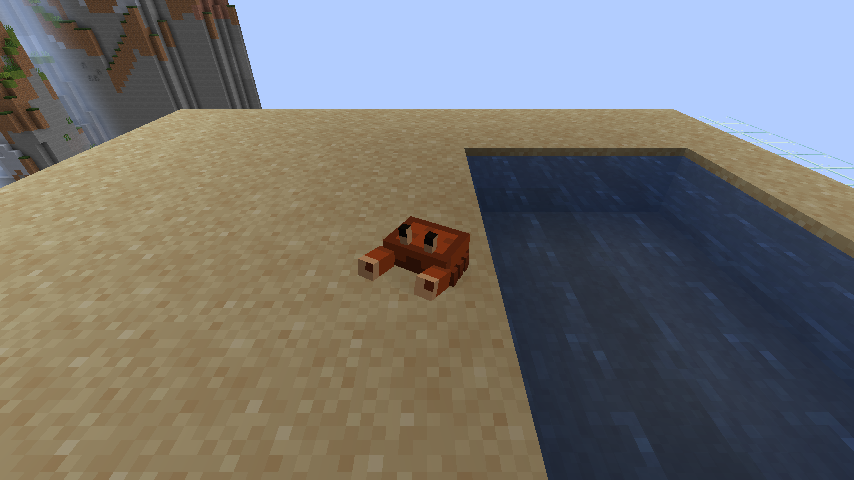
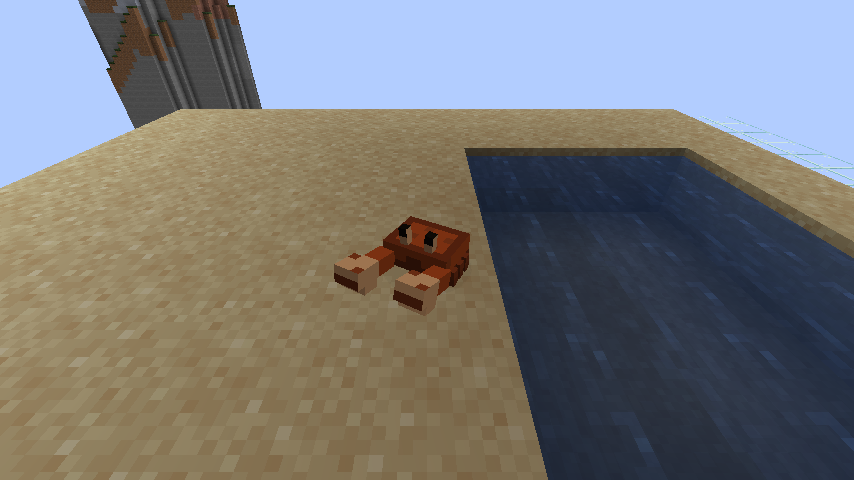
Give the Shore Crab real pincers — the claws ended in stumps
Each claw was a single 2x2x4 arm cuboid with a painted tip; in-world it
read as an arm ending in a stump (owner report). Each claw part now adds
a 3x2x3 upper jaw protruding 1px past a 3x1x2 lower jaw, so the open
pincer gap shows in silhouette from the side and the front. Painter
gains the four pincer nets (pale head vs orange arm, dark gap lines on
the gap-facing faces); money-shot render refreshed.

Changed region(s): [[0.0, 0.0, 0.1522, 0.4062], [0.3653, 0.5312, 0.5176, 0.6562]]

diff --git a/scripts/paint_shore_crab.py b/scripts/paint_shore_crab.py
@@ -74,6 +74,12 @@ PARTS = {
     'body':       (0, 0, 8, 3, 6),
     'claw_left':  (0, 10, 2, 2, 4),
     'claw_right': (24, 10, 2, 2, 4),
+    # Pincer heads (added after the v1 stump report): a 3x2x3 upper jaw and a
+    # shorter 3x1x2 lower jaw per claw — same claw ModelPart, separate cuboids.
+    'pincer_ul':  (0, 22, 3, 2, 3),
+    'pincer_ur':  (16, 22, 3, 2, 3),
+    'pincer_ll':  (32, 22, 3, 1, 2),
+    'pincer_lr':  (44, 22, 3, 1, 2),
     'leg_l0':     (0, 18, 1, 2, 1),
     'leg_l1':     (6, 18, 1, 2, 1),
     'leg_l2':     (12, 18, 1, 2, 1),
@@ -164,6 +170,32 @@ def paint_entity():
             ux, uy, uw, uh = c[f]
             for i in range(uw):
                 px[ux + i, uy + uh - 1] = TIP
+
+    # ---- PINCER HEADS  (geometry carries the silhouette; paint = pale head vs
+    # orange arm, with a dark RIM line on every gap-facing face) ----
+    for name in ('pincer_ul', 'pincer_ur'):
+        c = PF[name]
+        for f in ('up', 'down', 'east', 'north', 'west', 'south'):
+            rect(*c[f], TIP)
+        dx, dy, dw, dh = c['down']           # render-top: mottle speckle for texture
+        for i in range(0, dw, 2):
+            px[dx + i, dy + (i % dh)] = MOTTLE
+        ux, uy, uw, uh = c['up']             # render-bottom faces the gap: RIM front row
+        for i in range(uw):
+            px[ux + i, uy + uh - 1] = RIM
+        nx, ny, nw, nh = c['north']          # front face: RIM bottom row = the open mouth
+        for i in range(nw):
+            px[nx + i, ny + nh - 1] = RIM
+        sx_, sy_, sw_, sh_ = c['south']      # rear face meets the arm: shell tone
+        rect(sx_, sy_, sw_, sh_, SHELL)
+    for name in ('pincer_ll', 'pincer_lr'):
+        c = PF[name]
+        for f in ('up', 'down', 'east', 'north', 'west', 'south'):
+            rect(*c[f], TIP)
+        dx, dy, dw, dh = c['down']           # render-top faces the gap: RIM full
+        rect(dx, dy, dw, dh, RIM)
+        sx_, sy_, sw_, sh_ = c['south']
+        rect(sx_, sy_, sw_, sh_, SHELL)
         # Knuckle shading at the back lip of the top face.
         ux, uy, uw, uh = c['down']
         for i in range(uw):

diff --git a/src/main/java/me/tinyclaw/oceanoverhaul/client/ShoreCrabModel.java b/src/main/java/me/tinyclaw/oceanoverhaul/client/ShoreCrabModel.java
@@ -70,12 +70,22 @@ public class ShoreCrabModel extends SinglePartEntityModel<ShoreCrab> {
 				ModelPartBuilder.create().uv(0, 0).cuboid(-4.0F, -3.0F, -3.0F, 8.0F, 3.0F, 6.0F),
 				ModelTransform.pivot(0.0F, 23.0F, 0.0F));
 
-		// Claws — two forward-pointing pincers off the shell's front corners.
+		// Claws — arm + a chunky two-jaw pincer head per side. The arm alone read as
+		// a stump in the shipped v1 (owner report); the pincer is a 3-wide upper jaw
+		// protruding 1px past a shorter lower jaw, so the open-pincer gap shows in
+		// silhouette from both the side and the front. All three cuboids share the
+		// claw part, so the existing idle sway animates the whole assembly.
 		body.addChild("claw_left",
-				ModelPartBuilder.create().uv(0, 10).cuboid(-1.0F, -1.0F, -4.0F, 2.0F, 2.0F, 4.0F),
+				ModelPartBuilder.create()
+						.uv(0, 10).cuboid(-1.0F, -1.0F, -4.0F, 2.0F, 2.0F, 4.0F)
+						.uv(0, 22).cuboid(-1.5F, -1.5F, -7.0F, 3.0F, 2.0F, 3.0F)
+						.uv(32, 22).cuboid(-1.5F, 0.5F, -6.0F, 3.0F, 1.0F, 2.0F),
 				ModelTransform.pivot(-3.5F, -1.0F, -3.0F));
 		body.addChild("claw_right",
-				ModelPartBuilder.create().uv(24, 10).cuboid(-1.0F, -1.0F, -4.0F, 2.0F, 2.0F, 4.0F),
+				ModelPartBuilder.create()
+						.uv(24, 10).cuboid(-1.0F, -1.0F, -4.0F, 2.0F, 2.0F, 4.0F)
+						.uv(16, 22).cuboid(-1.5F, -1.5F, -7.0F, 3.0F, 2.0F, 3.0F)
+						.uv(44, 22).cuboid(-1.5F, 0.5F, -6.0F, 3.0F, 1.0F, 2.0F),
 				ModelTransform.pivot(3.5F, -1.0F, -3.0F));
 
 		// Three walking legs per side, each with its own UV cell on row 18.
